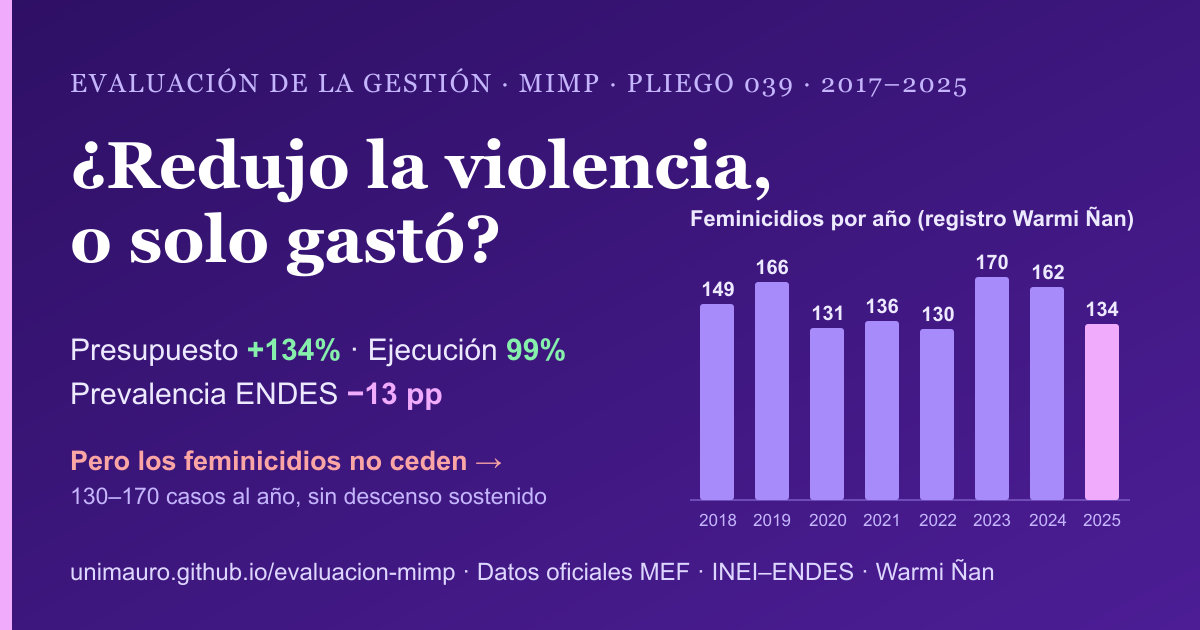
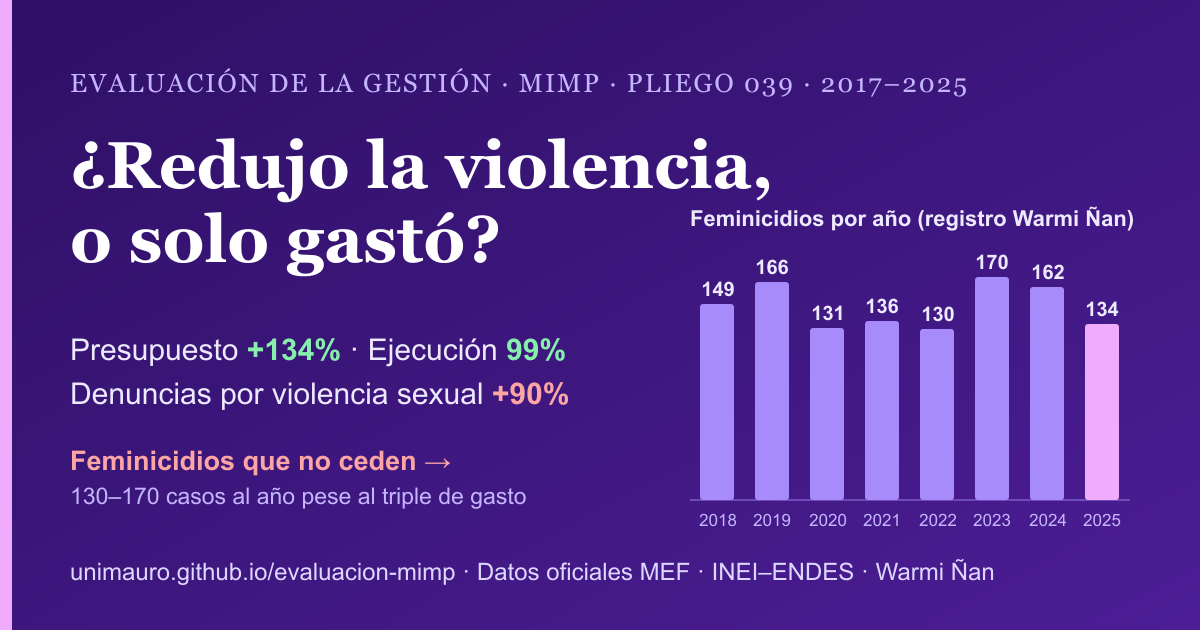
FAQ metodologico (por que ENDES no es el mejor dato) + OG a temas crudos
- Seccion FAQ con 7 preguntas: limites del ENDES, que mide, por que registros son mejores, no sumar, paradoja de registros, contexto multisectorial, tamaño del presupuesto
- OG actualizado: denuncias sexuales +90% y feminicidios que no ceden (mensaje crudo, sin ENDES)

Changed region(s): [[0.0617, 0.6032, 0.4933, 0.6635], [0.0617, 0.6937, 0.4625, 0.8143]]

diff --git a/04_entregables/tablero_mimp.html b/04_entregables/tablero_mimp.html
@@ -133,6 +133,14 @@ h2{font-family:"Helvetica Neue",Helvetica,Arial,sans-serif;font-weight:600;font-
 .evol.up .e-chg{color:var(--good)} .evol.down .e-chg{color:var(--crit)} .evol.flat .e-chg{color:var(--warn)} .evol.info .e-chg{color:var(--accent)}
 .evol .e-from{font-size:12px;color:var(--ink-2);margin-top:3px;font-variant-numeric:tabular-nums}
 
+.faq details{background:var(--panel);border:1px solid var(--line);border-radius:12px;margin-bottom:10px;overflow:hidden}
+.faq summary{cursor:pointer;padding:15px 46px 15px 18px;font-weight:700;font-size:14.5px;list-style:none;position:relative}
+.faq summary::-webkit-details-marker{display:none}
+.faq summary::after{content:"+";position:absolute;right:18px;top:12px;font-size:21px;color:var(--accent);font-weight:400}
+.faq details[open] summary::after{content:"−"}
+.faq details[open] summary{border-bottom:1px solid var(--line)}
+.faq .fa-body{padding:14px 18px;font-size:13.6px;color:var(--ink-2);line-height:1.58}
+.faq .fa-body b{color:var(--ink)}
 .note{background:var(--ground);border:1px solid var(--line);border-left:3px solid var(--warn);border-radius:10px;padding:14px 16px;font-size:13.5px;color:var(--ink-2)}
 .note b{color:var(--ink)}
 table.norm{width:100%;border-collapse:collapse;font-size:13px}
@@ -209,6 +217,7 @@ footer{margin-top:54px;border-top:1px solid var(--line);padding-top:18px;color:v
       <a href="#normas">Marco normativo</a>
       <a class="sec">Conclusión</a>
       <a href="#hipotesis">Hipótesis H1–H6</a>
+      <a href="#faq">Preguntas frecuentes</a>
     </nav>
     <div class="foot">Datos oficiales: MEF, INEI–ENDES, Portal Warmi Ñan, El Peruano.<br>Descarga 2026-09-08. Reproducible.</div>
   </aside>
@@ -397,6 +406,52 @@ footer{margin-top:54px;border-top:1px solid var(--line);padding-top:18px;color:v
         <p>Marco normativo sólido (Ley 30364, PNIG, Estrategia). Pero <b>~15 titulares en 9 años</b>
         (5 en 17 meses bajo un gobierno): inestabilidad de conducción frente a continuidad normativa.</p></div>
     </div>
+  </section>
+
+  <section id="faq" class="faq">
+    <h2>Preguntas frecuentes (metodología)</h2>
+    <p class="lead">Por qué algunos datos deben leerse con cuidado — y por qué la "caída" de la violencia no es lo que parece.</p>
+
+    <details open><summary>¿Por qué no confiar en que la violencia "cayó 13 puntos"?</summary>
+      <div class="fa-body">Ese número viene de <b>un solo indicador</b>: la prevalencia total de la encuesta INEI–ENDES
+      (65,4% en 2017 → 52,0% en 2024). Tiene tres problemas: (1) es <b>autorreporte</b> en una encuesta, no hechos
+      registrados; (2) mide violencia sufrida <b>"alguna vez" en la vida</b>, muy sensible a la composición de la muestra;
+      y (3) en <b>2020 el INEI cambió la metodología</b> (de promedios bienales a años simples), creando una ruptura de
+      serie. Además, casi todo el descenso ocurrió en 2017–2019 y desde 2020 <b>se estancó</b> (~52–55%).</div></details>
+
+    <details><summary>¿Qué mide exactamente "violencia de pareja" en la ENDES?</summary>
+      <div class="fa-body">El % de mujeres de <b>15 a 49 años alguna vez unidas</b> que declaran haber sufrido violencia
+      psicológica/verbal, física o sexual ejercida <b>alguna vez por su esposo o compañero</b>. No incluye a mujeres no
+      unidas, no cubre otras formas de violencia de género (acoso, trata, violencia institucional) y depende de que la
+      mujer <b>reconozca y reporte</b> la violencia en la entrevista. Base: Cuadro 11.1, Series Anuales INEI 1986–2024.</div></details>
+
+    <details><summary>Entonces, ¿qué datos son mejores para evaluar el problema?</summary>
+      <div class="fa-body">Los <b>registros de hechos</b>, que no dependen de autorreporte y no muestran mejora:
+      <b>feminicidios</b> estancados en 130–170/año (registro Warmi Ñan), <b>denuncias por violencia sexual</b> que
+      casi se duplicaron (5,7k→10,8k, INEI/PNP) y <b>atenciones CEM</b> estables en ~165k. Cada uno tiene su límite
+      (subregistro, cambios de definición), pero en conjunto pintan un panorama <b>más crudo</b> que la encuesta.</div></details>
+
+    <details><summary>¿Se pueden sumar feminicidios + denuncias + atenciones en un solo número?</summary>
+      <div class="fa-body"><b>No.</b> Son unidades distintas: los feminicidios son <b>muertes</b>, las denuncias son
+      <b>denuncias</b> y las atenciones son <b>casos atendidos</b> (una misma persona puede tener varias). Sumarlos
+      produciría una cifra sin sentido. Por eso se muestran <b>juntos como panel de señales</b>, no como un total.</div></details>
+
+    <details><summary>Más denuncias, ¿es más violencia o más gente denunciando?</summary>
+      <div class="fa-body">No se puede concluir una sola cosa: es la <b>paradoja de los registros</b>. Un alza de denuncias
+      puede reflejar <b>más violencia</b>, <b>más disposición a denunciar</b> (mayor confianza/visibilización), o
+      <b>más oferta de servicios</b> que capta casos antes invisibles. Por eso las denuncias y atenciones se presentan
+      como <b>demanda registrada</b>, no como medida directa de la magnitud del problema.</div></details>
+
+    <details><summary>¿Por qué feminicidios y violaciones son "contexto" y no responsabilidad del MIMP?</summary>
+      <div class="fa-body">Porque son <b>multisectoriales</b>: la investigación la conduce el <b>Ministerio Público</b>, la
+      sanción el <b>Poder Judicial</b>, y las denuncias las registra la <b>PNP/Mininter</b>. El MIMP previene, atiende y
+      articula, pero no controla el resultado penal. Se leen como <b>contribución, no atribución</b>: sirven de contexto,
+      no como nota directa de la eficacia del ministerio.</div></details>
+
+    <details><summary>¿El presupuesto del MIMP es alto o bajo?</summary>
+      <div class="fa-body">En términos absolutos <b>creció mucho</b> (PIA S/ 426 M en 2017 → S/ 996 M en 2025, +134%) y se
+      <b>ejecuta casi al 100%</b>. Pero como parte del presupuesto nacional pesa apenas <b>~0,4%</b>. Ambas cosas son
+      ciertas: el MIMP no subejecuta, pero su escala frente al problema es pequeña.</div></details>
   </section>
 
   <footer>

diff --git a/docs/index.html b/docs/index.html
@@ -133,6 +133,14 @@ h2{font-family:"Helvetica Neue",Helvetica,Arial,sans-serif;font-weight:600;font-
 .evol.up .e-chg{color:var(--good)} .evol.down .e-chg{color:var(--crit)} .evol.flat .e-chg{color:var(--warn)} .evol.info .e-chg{color:var(--accent)}
 .evol .e-from{font-size:12px;color:var(--ink-2);margin-top:3px;font-variant-numeric:tabular-nums}
 
+.faq details{background:var(--panel);border:1px solid var(--line);border-radius:12px;margin-bottom:10px;overflow:hidden}
+.faq summary{cursor:pointer;padding:15px 46px 15px 18px;font-weight:700;font-size:14.5px;list-style:none;position:relative}
+.faq summary::-webkit-details-marker{display:none}
+.faq summary::after{content:"+";position:absolute;right:18px;top:12px;font-size:21px;color:var(--accent);font-weight:400}
+.faq details[open] summary::after{content:"−"}
+.faq details[open] summary{border-bottom:1px solid var(--line)}
+.faq .fa-body{padding:14px 18px;font-size:13.6px;color:var(--ink-2);line-height:1.58}
+.faq .fa-body b{color:var(--ink)}
 .note{background:var(--ground);border:1px solid var(--line);border-left:3px solid var(--warn);border-radius:10px;padding:14px 16px;font-size:13.5px;color:var(--ink-2)}
 .note b{color:var(--ink)}
 table.norm{width:100%;border-collapse:collapse;font-size:13px}
@@ -209,6 +217,7 @@ footer{margin-top:54px;border-top:1px solid var(--line);padding-top:18px;color:v
       <a href="#normas">Marco normativo</a>
       <a class="sec">Conclusión</a>
       <a href="#hipotesis">Hipótesis H1–H6</a>
+      <a href="#faq">Preguntas frecuentes</a>
     </nav>
     <div class="foot">Datos oficiales: MEF, INEI–ENDES, Portal Warmi Ñan, El Peruano.<br>Descarga 2026-09-08. Reproducible.</div>
   </aside>
@@ -397,6 +406,52 @@ footer{margin-top:54px;border-top:1px solid var(--line);padding-top:18px;color:v
         <p>Marco normativo sólido (Ley 30364, PNIG, Estrategia). Pero <b>~15 titulares en 9 años</b>
         (5 en 17 meses bajo un gobierno): inestabilidad de conducción frente a continuidad normativa.</p></div>
     </div>
+  </section>
+
+  <section id="faq" class="faq">
+    <h2>Preguntas frecuentes (metodología)</h2>
+    <p class="lead">Por qué algunos datos deben leerse con cuidado — y por qué la "caída" de la violencia no es lo que parece.</p>
+
+    <details open><summary>¿Por qué no confiar en que la violencia "cayó 13 puntos"?</summary>
+      <div class="fa-body">Ese número viene de <b>un solo indicador</b>: la prevalencia total de la encuesta INEI–ENDES
+      (65,4% en 2017 → 52,0% en 2024). Tiene tres problemas: (1) es <b>autorreporte</b> en una encuesta, no hechos
+      registrados; (2) mide violencia sufrida <b>"alguna vez" en la vida</b>, muy sensible a la composición de la muestra;
+      y (3) en <b>2020 el INEI cambió la metodología</b> (de promedios bienales a años simples), creando una ruptura de
+      serie. Además, casi todo el descenso ocurrió en 2017–2019 y desde 2020 <b>se estancó</b> (~52–55%).</div></details>
+
+    <details><summary>¿Qué mide exactamente "violencia de pareja" en la ENDES?</summary>
+      <div class="fa-body">El % de mujeres de <b>15 a 49 años alguna vez unidas</b> que declaran haber sufrido violencia
+      psicológica/verbal, física o sexual ejercida <b>alguna vez por su esposo o compañero</b>. No incluye a mujeres no
+      unidas, no cubre otras formas de violencia de género (acoso, trata, violencia institucional) y depende de que la
+      mujer <b>reconozca y reporte</b> la violencia en la entrevista. Base: Cuadro 11.1, Series Anuales INEI 1986–2024.</div></details>
+
+    <details><summary>Entonces, ¿qué datos son mejores para evaluar el problema?</summary>
+      <div class="fa-body">Los <b>registros de hechos</b>, que no dependen de autorreporte y no muestran mejora:
+      <b>feminicidios</b> estancados en 130–170/año (registro Warmi Ñan), <b>denuncias por violencia sexual</b> que
+      casi se duplicaron (5,7k→10,8k, INEI/PNP) y <b>atenciones CEM</b> estables en ~165k. Cada uno tiene su límite
+      (subregistro, cambios de definición), pero en conjunto pintan un panorama <b>más crudo</b> que la encuesta.</div></details>
+
+    <details><summary>¿Se pueden sumar feminicidios + denuncias + atenciones en un solo número?</summary>
+      <div class="fa-body"><b>No.</b> Son unidades distintas: los feminicidios son <b>muertes</b>, las denuncias son
+      <b>denuncias</b> y las atenciones son <b>casos atendidos</b> (una misma persona puede tener varias). Sumarlos
+      produciría una cifra sin sentido. Por eso se muestran <b>juntos como panel de señales</b>, no como un total.</div></details>
+
+    <details><summary>Más denuncias, ¿es más violencia o más gente denunciando?</summary>
+      <div class="fa-body">No se puede concluir una sola cosa: es la <b>paradoja de los registros</b>. Un alza de denuncias
+      puede reflejar <b>más violencia</b>, <b>más disposición a denunciar</b> (mayor confianza/visibilización), o
+      <b>más oferta de servicios</b> que capta casos antes invisibles. Por eso las denuncias y atenciones se presentan
+      como <b>demanda registrada</b>, no como medida directa de la magnitud del problema.</div></details>
+
+    <details><summary>¿Por qué feminicidios y violaciones son "contexto" y no responsabilidad del MIMP?</summary>
+      <div class="fa-body">Porque son <b>multisectoriales</b>: la investigación la conduce el <b>Ministerio Público</b>, la
+      sanción el <b>Poder Judicial</b>, y las denuncias las registra la <b>PNP/Mininter</b>. El MIMP previene, atiende y
+      articula, pero no controla el resultado penal. Se leen como <b>contribución, no atribución</b>: sirven de contexto,
+      no como nota directa de la eficacia del ministerio.</div></details>
+
+    <details><summary>¿El presupuesto del MIMP es alto o bajo?</summary>
+      <div class="fa-body">En términos absolutos <b>creció mucho</b> (PIA S/ 426 M en 2017 → S/ 996 M en 2025, +134%) y se
+      <b>ejecuta casi al 100%</b>. Pero como parte del presupuesto nacional pesa apenas <b>~0,4%</b>. Ambas cosas son
+      ciertas: el MIMP no subejecuta, pero su escala frente al problema es pequeña.</div></details>
   </section>
 
   <footer>

diff --git a/scripts/fase6_tablero.py b/scripts/fase6_tablero.py
@@ -287,6 +287,14 @@ h2{font-family:"Helvetica Neue",Helvetica,Arial,sans-serif;font-weight:600;font-
 .evol.up .e-chg{color:var(--good)} .evol.down .e-chg{color:var(--crit)} .evol.flat .e-chg{color:var(--warn)} .evol.info .e-chg{color:var(--accent)}
 .evol .e-from{font-size:12px;color:var(--ink-2);margin-top:3px;font-variant-numeric:tabular-nums}
 
+.faq details{background:var(--panel);border:1px solid var(--line);border-radius:12px;margin-bottom:10px;overflow:hidden}
+.faq summary{cursor:pointer;padding:15px 46px 15px 18px;font-weight:700;font-size:14.5px;list-style:none;position:relative}
+.faq summary::-webkit-details-marker{display:none}
+.faq summary::after{content:"+";position:absolute;right:18px;top:12px;font-size:21px;color:var(--accent);font-weight:400}
+.faq details[open] summary::after{content:"−"}
+.faq details[open] summary{border-bottom:1px solid var(--line)}
+.faq .fa-body{padding:14px 18px;font-size:13.6px;color:var(--ink-2);line-height:1.58}
+.faq .fa-body b{color:var(--ink)}
 .note{background:var(--ground);border:1px solid var(--line);border-left:3px solid var(--warn);border-radius:10px;padding:14px 16px;font-size:13.5px;color:var(--ink-2)}
 .note b{color:var(--ink)}
 table.norm{width:100%;border-collapse:collapse;font-size:13px}
@@ -363,6 +371,7 @@ footer{margin-top:54px;border-top:1px solid var(--line);padding-top:18px;color:v
       <a href="#normas">Marco normativo</a>
       <a class="sec">Conclusión</a>
       <a href="#hipotesis">Hipótesis H1–H6</a>
+      <a href="#faq">Preguntas frecuentes</a>
     </nav>
     <div class="foot">Datos oficiales: MEF, INEI–ENDES, Portal Warmi Ñan, El Peruano.<br>Descarga 2026-09-08. Reproducible.</div>
   </aside>
@@ -551,6 +560,52 @@ footer{margin-top:54px;border-top:1px solid var(--line);padding-top:18px;color:v
         <p>Marco normativo sólido (Ley 30364, PNIG, Estrategia). Pero <b>~15 titulares en 9 años</b>
         (5 en 17 meses bajo un gobierno): inestabilidad de conducción frente a continuidad normativa.</p></div>
     </div>
+  </section>
+
+  <section id="faq" class="faq">
+    <h2>Preguntas frecuentes (metodología)</h2>
+    <p class="lead">Por qué algunos datos deben leerse con cuidado — y por qué la "caída" de la violencia no es lo que parece.</p>
+
+    <details open><summary>¿Por qué no confiar en que la violencia "cayó 13 puntos"?</summary>
+      <div class="fa-body">Ese número viene de <b>un solo indicador</b>: la prevalencia total de la encuesta INEI–ENDES
+      (65,4% en 2017 → 52,0% en 2024). Tiene tres problemas: (1) es <b>autorreporte</b> en una encuesta, no hechos
+      registrados; (2) mide violencia sufrida <b>"alguna vez" en la vida</b>, muy sensible a la composición de la muestra;
+      y (3) en <b>2020 el INEI cambió la metodología</b> (de promedios bienales a años simples), creando una ruptura de
+      serie. Además, casi todo el descenso ocurrió en 2017–2019 y desde 2020 <b>se estancó</b> (~52–55%).</div></details>
+
+    <details><summary>¿Qué mide exactamente "violencia de pareja" en la ENDES?</summary>
+      <div class="fa-body">El % de mujeres de <b>15 a 49 años alguna vez unidas</b> que declaran haber sufrido violencia
+      psicológica/verbal, física o sexual ejercida <b>alguna vez por su esposo o compañero</b>. No incluye a mujeres no
+      unidas, no cubre otras formas de violencia de género (acoso, trata, violencia institucional) y depende de que la
+      mujer <b>reconozca y reporte</b> la violencia en la entrevista. Base: Cuadro 11.1, Series Anuales INEI 1986–2024.</div></details>
+
+    <details><summary>Entonces, ¿qué datos son mejores para evaluar el problema?</summary>
+      <div class="fa-body">Los <b>registros de hechos</b>, que no dependen de autorreporte y no muestran mejora:
+      <b>feminicidios</b> estancados en 130–170/año (registro Warmi Ñan), <b>denuncias por violencia sexual</b> que
+      casi se duplicaron (5,7k→10,8k, INEI/PNP) y <b>atenciones CEM</b> estables en ~165k. Cada uno tiene su límite
+      (subregistro, cambios de definición), pero en conjunto pintan un panorama <b>más crudo</b> que la encuesta.</div></details>
+
+    <details><summary>¿Se pueden sumar feminicidios + denuncias + atenciones en un solo número?</summary>
+      <div class="fa-body"><b>No.</b> Son unidades distintas: los feminicidios son <b>muertes</b>, las denuncias son
+      <b>denuncias</b> y las atenciones son <b>casos atendidos</b> (una misma persona puede tener varias). Sumarlos
+      produciría una cifra sin sentido. Por eso se muestran <b>juntos como panel de señales</b>, no como un total.</div></details>
+
+    <details><summary>Más denuncias, ¿es más violencia o más gente denunciando?</summary>
+      <div class="fa-body">No se puede concluir una sola cosa: es la <b>paradoja de los registros</b>. Un alza de denuncias
+      puede reflejar <b>más violencia</b>, <b>más disposición a denunciar</b> (mayor confianza/visibilización), o
+      <b>más oferta de servicios</b> que capta casos antes invisibles. Por eso las denuncias y atenciones se presentan
+      como <b>demanda registrada</b>, no como medida directa de la magnitud del problema.</div></details>
+
+    <details><summary>¿Por qué feminicidios y violaciones son "contexto" y no responsabilidad del MIMP?</summary>
+      <div class="fa-body">Porque son <b>multisectoriales</b>: la investigación la conduce el <b>Ministerio Público</b>, la
+      sanción el <b>Poder Judicial</b>, y las denuncias las registra la <b>PNP/Mininter</b>. El MIMP previene, atiende y
+      articula, pero no controla el resultado penal. Se leen como <b>contribución, no atribución</b>: sirven de contexto,
+      no como nota directa de la eficacia del ministerio.</div></details>
+
+    <details><summary>¿El presupuesto del MIMP es alto o bajo?</summary>
+      <div class="fa-body">En términos absolutos <b>creció mucho</b> (PIA S/ 426 M en 2017 → S/ 996 M en 2025, +134%) y se
+      <b>ejecuta casi al 100%</b>. Pero como parte del presupuesto nacional pesa apenas <b>~0,4%</b>. Ambas cosas son
+      ciertas: el MIMP no subejecuta, pero su escala frente al problema es pequeña.</div></details>
   </section>
 
   <footer>

diff --git a/scripts/fase6_og.py b/scripts/fase6_og.py
@@ -55,9 +55,9 @@ svg = f'''<svg xmlns="http://www.w3.org/2000/svg" width="1200" height="630" view
 <text x="70" y="188" font-family="Georgia,serif" font-size="66" font-weight="700" fill="#ffffff">¿Redujo la violencia,</text>
 <text x="70" y="262" font-family="Georgia,serif" font-size="66" font-weight="700" fill="#ffffff">o solo gastó?</text>
 <text x="70" y="360" font-family="Arial" font-size="30" fill="#ede9fe">Presupuesto <tspan font-weight="700" fill="#86efac">+134%</tspan> · Ejecución <tspan font-weight="700" fill="#86efac">99%</tspan></text>
-<text x="70" y="404" font-family="Arial" font-size="30" fill="#ede9fe">Prevalencia ENDES <tspan font-weight="700" fill="#f0abfc">−13 pp</tspan></text>
-<text x="70" y="470" font-family="Arial" font-size="27" font-weight="700" fill="#fca5a5">Pero los feminicidios no ceden →</text>
-<text x="70" y="504" font-family="Arial" font-size="23" fill="#c4b5fd">130–170 casos al año, sin descenso sostenido</text>
+<text x="70" y="404" font-family="Arial" font-size="30" fill="#ede9fe">Denuncias por violencia sexual <tspan font-weight="700" fill="#fca5a5">+90%</tspan></text>
+<text x="70" y="470" font-family="Arial" font-size="27" font-weight="700" fill="#fca5a5">Feminicidios que no ceden →</text>
+<text x="70" y="504" font-family="Arial" font-size="23" fill="#c4b5fd">130–170 casos al año pese al triple de gasto</text>
 <text x="70" y="580" font-family="Arial" font-size="24" fill="#ddd6fe">unimauro.github.io/evaluacion-mimp · Datos oficiales MEF · INEI–ENDES · Warmi Ñan</text>
 <text x="{gx}" y="{gy-24:.0f}" font-family="Arial" font-size="22" font-weight="700" fill="#ede9fe">Feminicidios por año (registro Warmi Ñan)</text>
 <line x1="{gx}" y1="{gy+gh}" x2="{gx+gw}" y2="{gy+gh}" stroke="#7c5cc4" stroke-width="1.5"/>
